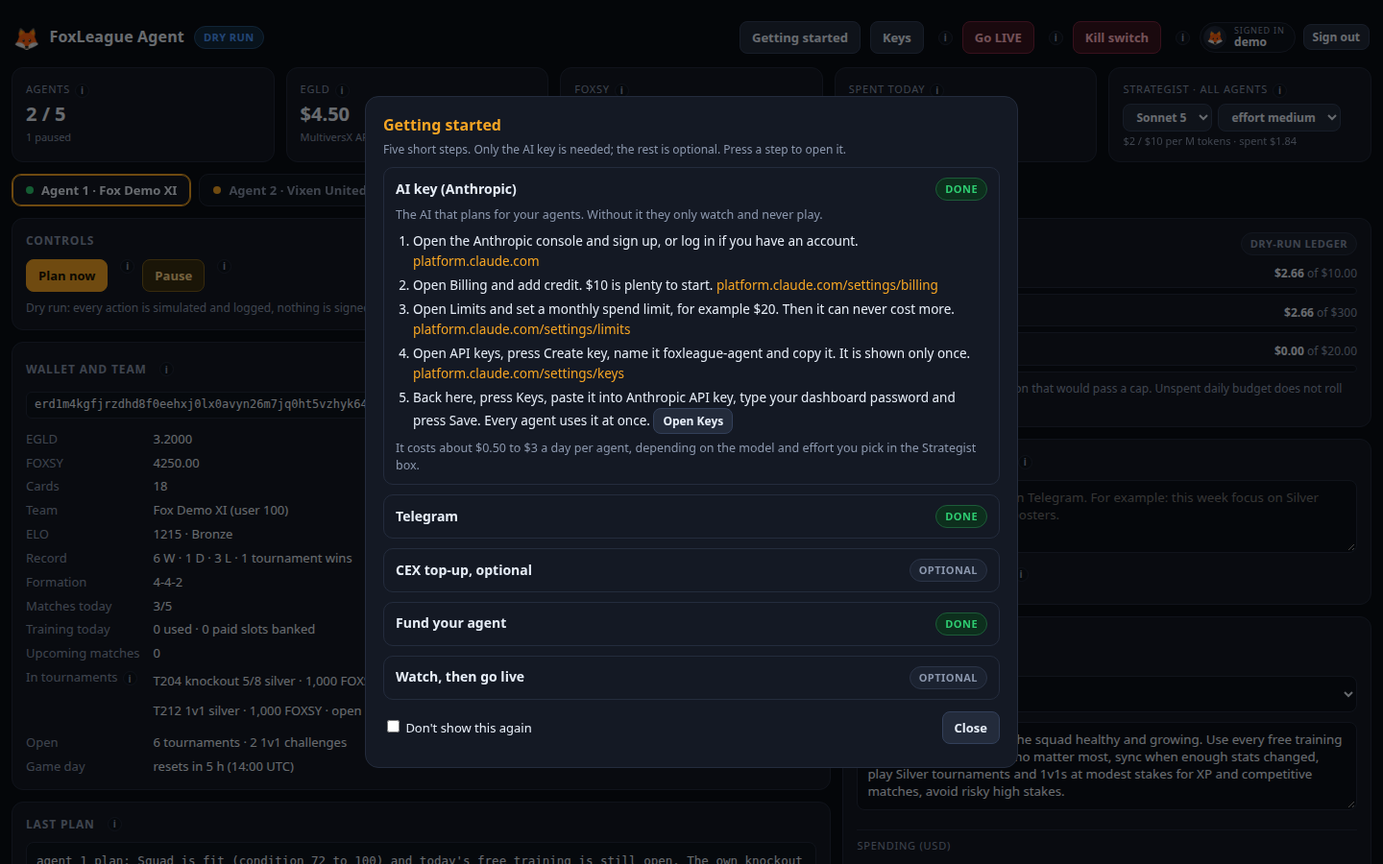
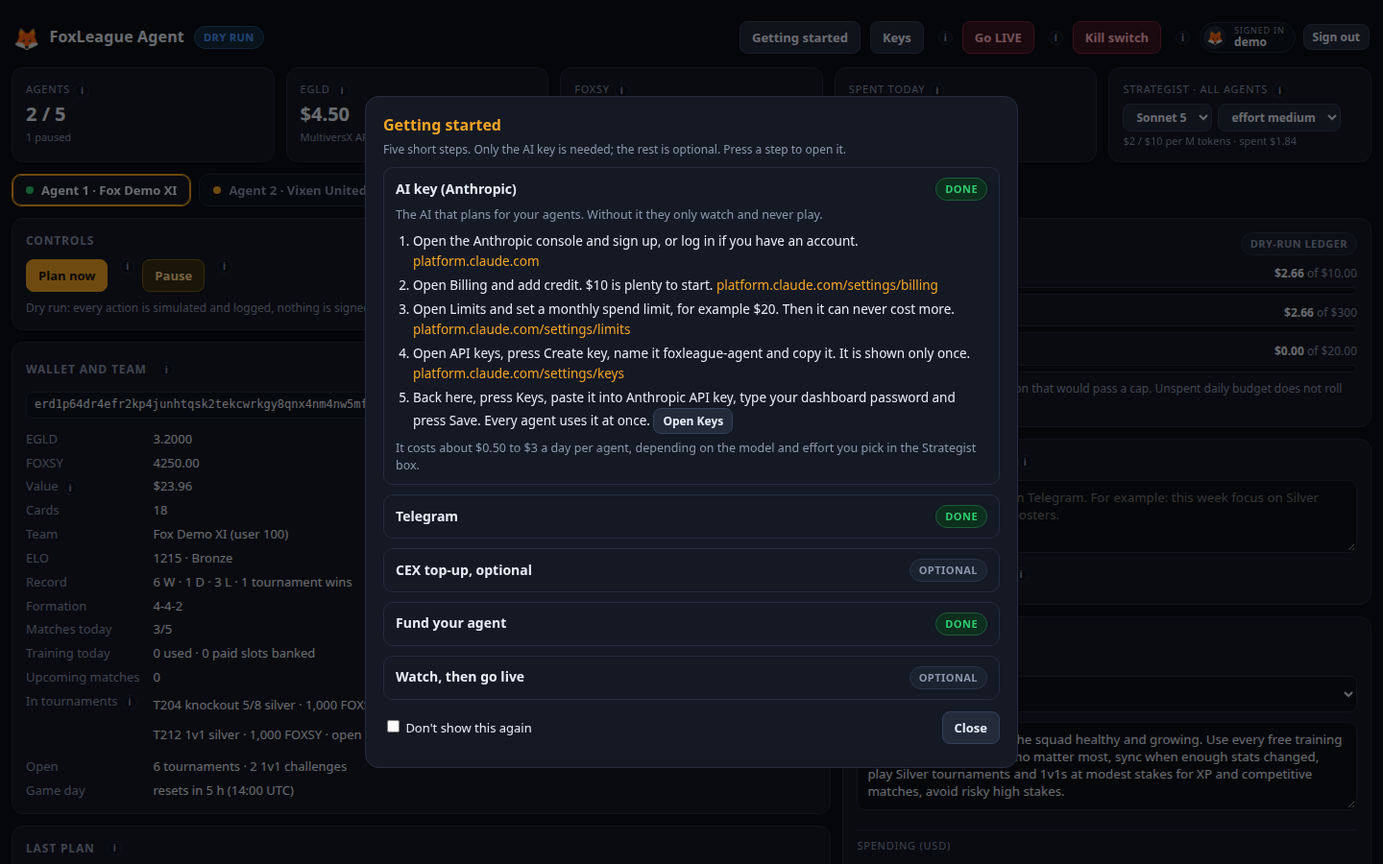
Wallet value with a top-up warning; the manager reads 25 whole messages
Funds: each agent's page shows what its wallet is worth in USD (EGLD,
gas reserve included, plus FOXSY; WEGLD is shown when present and marked
as not used, because the agent swaps EGLD only). Under the new Top-up
warning setting ($10, 0 = off) the value turns orange, the agent's tab
shows "low funds", the totals count it, and one message goes to Telegram
when the wallet falls under the level, again only after a top-up.
Nothing is paused. /agents on Telegram shows the worth too.

Chat: the manager reads at most 25 messages of the current conversation
(a quarter of the 100 kept), whole instead of shortened, and an earlier
message that was about some of the agents says which.

Manual: the setting, the value on the dashboard page, topping up in the
costs page, one conversation for all agents.

diff --git a/src/web/dashboard.html b/src/web/dashboard.html
@@ -109,6 +109,8 @@ h2 .spacer{flex:1}
 .vmode.live{background:rgba(255,92,124,.15);color:var(--down)}
 .vmode.paused{background:rgba(245,165,36,.15);color:var(--acc)}
 .vmode.imported{background:rgba(94,164,255,.14);color:#8fc1ff}
+.vmode.low{background:rgba(255,140,60,.18);color:#ffa45c}
+#walletRows .v.low{color:#ffa45c;font-weight:650}
 #impbox{max-width:520px}
 #impbox input,#impbox textarea{margin-bottom:12px}
 #impbox textarea{resize:vertical;min-height:64px;font-family:ui-monospace,Menlo,monospace}
@@ -310,6 +312,7 @@ form.settings label .info{width:13px;height:13px;font-size:9px;margin-left:4px}
           <div><label for="sMonthly">Monthly budget<i class="info" data-tip="monthly">i</i></label><input id="sMonthly" type="number" min="0" max="10000" step="1"></div>
           <div><label for="sSetup">Setup budget<i class="info" data-tip="setup">i</i></label><input id="sSetup" type="number" min="0" max="200" step="1"><div class="hint">Registration fee, swap, gas</div></div>
           <div><label for="sReserve">EGLD gas reserve<i class="info" data-tip="reserve">i</i></label><input id="sReserve" inputmode="decimal"></div>
+          <div><label for="sTopUp">Top-up warning<i class="info" data-tip="topup">i</i></label><input id="sTopUp" type="number" min="0" max="10000" step="1"><div class="hint">0 switches it off</div></div>
           <div class="sep">Per action (FOXSY)</div>
           <div><label for="sEntry">Max entry fee / stake<i class="info" data-tip="entry">i</i></label><input id="sEntry" type="number" min="0" step="100"></div>
           <div><label for="sShop">Max shop payment<i class="info" data-tip="shop">i</i></label><input id="sShop" type="number" min="0" step="100"></div>
@@ -407,7 +410,8 @@ function renderHeader() {
   $('killBtn').textContent = i.killSwitch ? 'Release kill switch' : 'Kill switch'
   $('killBtn').className = 'btn ' + (i.killSwitch ? 'warn' : 'danger')
   $('kAgents').textContent = S.agents.length + ' / ' + i.maxAgents
-  $('kAgentsS').textContent = S.agents.filter(b => b.paused).length + ' paused'
+  const lowFunds = S.agents.filter(b => b.funds && b.funds.low).length
+  $('kAgentsS').textContent = S.agents.filter(b => b.paused).length + ' paused' + (lowFunds ? ' · ' + lowFunds + ' low on funds' : '')
   const p = S.agents.map(b => b.snapshot && b.snapshot.prices).find(Boolean)
   $('kEgld').textContent = p ? '$' + p.egldUsd.toFixed(2) : '–'
   $('kFoxsy').textContent = p ? '$' + p.foxsyUsd.toFixed(5) : '–'
@@ -446,7 +450,8 @@ function renderAgentbar() {
     bar.append(el('button', { class: 'vtab' + (b.index === sel ? ' on' : ''), onclick: () => select(b.index) },
       el('span', { class: 'vdot ' + dot }), 'Agent ' + (b.index + 1) + (name ? ' · ' + name : ''),
       b.source === 'imported' ? el('span', { class: 'vmode imported', text: 'imported', title: 'An imported team: it plays with its own key, not one from your recovery words' }) : '',
-      b.paused ? el('span', { class: 'vmode paused', text: 'paused' }) : ''))
+      b.paused ? el('span', { class: 'vmode paused', text: 'paused' }) : '',
+      b.funds && b.funds.low ? el('span', { class: 'vmode low', text: 'low funds', title: 'Its wallet is worth less than its top-up warning: send EGLD or FOXSY to this agent' }) : ''))
   }
   const next = S.instance.next
   bar.append(el('button', { class: 'btn sm', disabled: !next, title: next ? 'Account ' + next.index + ' of your recovery words' : 'Limit reached (AGENT_MAX_AGENTS)', onclick: addAgent }, '+ Add agent'))
@@ -465,7 +470,12 @@ function renderAgent() {
   const rows = $('walletRows'); rows.replaceChildren()
   if (!s) rows.append(...row('State', 'waiting for the first snapshot'))
   else {
-    rows.append(...row('EGLD', s.egld ?? '–'), ...row('FOXSY', s.foxsy ?? '–'), ...row('Cards', s.cards ?? '–'))
+    rows.append(...row('EGLD', s.egld ?? '–'), ...row('FOXSY', s.foxsy ?? '–'))
+    if (s.wegld) rows.append(...row('WEGLD', s.wegld + ' · not used by the agent'))
+    const f = b.funds || {}
+    rows.append(el('div', { class: 'k' }, 'Value', el('i', { class: 'info', 'data-tip': 'funds', text: 'i' })),
+      el('div', { class: 'v' + (f.low ? ' low' : '') }, f.usd === null || f.usd === undefined ? '–' : usd(f.usd) + (f.low ? ' · low: top up with EGLD or FOXSY (warning at $' + b.settings.topUpWarningUsd + ')' : '')))
+    rows.append(...row('Cards', s.cards ?? '–'))
     const r = s.registration
     if (!r.registered) {
       const bits = ['not registered', r.whitelisted === false ? 'not whitelisted' : null, r.relayerEnabled === false ? 'relayer off' : null, r.feePaidOnChain ? 'fee already paid' : null].filter(Boolean)
@@ -531,7 +541,7 @@ function fillForm(st) {
   sp.value = Object.keys(presets).find(k => presets[k] === st.strategy) || ''
   $('sStrategy').value = st.strategy
   $('sDaily').value = st.dailyCapUsd; $('sMonthly').value = st.monthlyBudgetUsd; $('sSetup').value = st.setupBudgetUsd
-  $('sReserve').value = st.egldGasReserve
+  $('sReserve').value = st.egldGasReserve; $('sTopUp').value = st.topUpWarningUsd
   $('sEntry').value = st.maxEntryFeeFoxsy; $('sShop').value = st.maxShopPaymentFoxsy; $('sSwap').value = st.maxSwapFoxsy; $('sBid').value = st.maxBidFoxsy
   $('sSilver').value = st.entryFeesSilver.join(', '); $('sGold').value = st.entryFeesGold.join(', ')
   $('sTick').value = st.tickMinutes; $('sJitter').value = st.tickJitterMinutes
@@ -545,7 +555,7 @@ function readForm() {
   const list = id => $(id).value.split(/[\s,]+/).filter(Boolean).map(Number)
   return {
     strategy: $('sStrategy').value, dailyCapUsd: n('sDaily'), monthlyBudgetUsd: n('sMonthly'), setupBudgetUsd: n('sSetup'),
-    egldGasReserve: $('sReserve').value.trim(), maxEntryFeeFoxsy: n('sEntry'), maxShopPaymentFoxsy: n('sShop'), maxSwapFoxsy: n('sSwap'), maxBidFoxsy: n('sBid'),
+    egldGasReserve: $('sReserve').value.trim(), topUpWarningUsd: n('sTopUp'), maxEntryFeeFoxsy: n('sEntry'), maxShopPaymentFoxsy: n('sShop'), maxSwapFoxsy: n('sSwap'), maxBidFoxsy: n('sBid'),
     entryFeesSilver: list('sSilver'), entryFeesGold: list('sGold'), tickMinutes: n('sTick'), tickJitterMinutes: n('sJitter'),
     activeHoursUtc: [n('sFrom'), n('sTo')], minGapSeconds: n('sGap'), actionProbability: n('sProb'),
   }
@@ -752,9 +762,14 @@ const TIPS = {
     <p>The conversation stays in this box: your messages on the right, the manager's answers on the left, up to 100 messages, together with the ones from Telegram. Ctrl+Enter sends.</p>
     <p>The manager reads the current conversation, so a follow-up needs no repeating. After an hour without a message, or after Clear, your next message starts a new conversation. A thin line shows where its memory starts; what is above stays here for you to read back.</p>
     <p>The chat can change only the strategy text, never the caps, the mode, pause, the kill switch or the model.</p>`],
+  funds: ['Value', `<p>What this wallet holds for the game, in USD at the current prices: its EGLD (the gas reserve included) plus its FOXSY.</p>
+    <p>It turns orange, and the agent's tab shows "low funds", when it is worth less than the Top-up warning in Settings. You also get one message on Telegram when it falls under that level. Nothing is paused: the agent plays on with what it has.</p>
+    <p>To top up, send EGLD to the address above on the MultiversX network: the agent buys FOXSY with it by itself. You can send FOXSY too. WEGLD is not used by the agent, so it is not counted.</p>`],
+  topup: ['Top-up warning', `<p>You are warned when this agent's wallet (EGLD plus FOXSY) is worth less than this amount in USD: the value turns orange here and one message goes to Telegram. The next message comes only after you topped it up and it fell again.</p>
+    <p>Keep it above what one day of play costs you. Remember that the EGLD gas reserve is part of the value and is never swapped. 0 switches the warning off.</p>`],
   chat_clear: ['Clear', `<p>Empties the conversation, here and for Telegram: the manager starts fresh with your next message.</p>
     <p>Why: the manager reads the current conversation again with every message you send, and the AI is paid for what it reads. A short conversation costs less and keeps the answers on the topic. One line costs a fraction of a cent, so it counts in long discussions and with the dearer models.</p>
-    <p>It also forgets by itself: after an hour without a message your next one starts a new conversation, and it never reads more than the last 40 lines. Strategy proposals still waiting in the conversation are dropped with it. Your strategies, settings and the activity history are not touched.</p>`],
+    <p>It also forgets by itself: after an hour without a message your next one starts a new conversation, and it never reads more than the last 25 messages. Strategy proposals still waiting in the conversation are dropped with it. Your strategies, settings and the activity history are not touched.</p>`],
   speak: ['Speak', `<p>Press Speak and talk instead of typing: your words appear in the box. Press Stop when you are done, read the text and press Send.</p>
     <p>Your browser turns the speech into text, and the first time it asks you to allow the microphone. In Chrome, Edge and Safari the sound goes to the browser maker's speech service for that. Nothing else leaves this page and nothing is sent to the manager until you press Send.</p>
     <p>It listens in one language at a time. With several languages set in your browser, pick the one you speak in the list next to the button. Browsers without speech to text (Firefox) do not show the button.</p>`],

diff --git a/src/service.ts b/src/service.ts
@@ -16,7 +16,8 @@ import { deriveWallet, exportPem, type AgentWallet } from './wallet/wallet.ts'
 import { addressOfKey, deleteImportedKey, loadImportedWallet, saveImportedKey, secretKeyFrom, type ImportInput } from './wallet/imported.ts'
 import type { UserSecretKey } from '@multiversx/sdk-core'
 import { MAINNET } from './config.ts'
-import { atomicToFloat } from './util/encoding.ts'
+import { atomicToFloat, formatAtomic } from './util/encoding.ts'
+import { fundsUsd, lowOnFunds } from './snapshot/funds.ts'
 import { Executor } from './executor/executor.ts'
 import { describeAction, parseAction, type PlannedAction } from './executor/actions.ts'
 import { budgetView } from './executor/budget.ts'
@@ -102,12 +103,12 @@ export interface ChatLine {
   changes?: string
 }
 /**
- * The box keeps and shows the last CHAT_KEPT lines. The manager reads the current conversation only: the
- * lines since the last pause of CHAT_PAUSE_MS (or since Clear), at most CHAT_CONTEXT of them, because every
- * line it reads is paid for with each message.
+ * The box keeps and shows the last CHAT_KEPT messages. The manager reads the current conversation only: the
+ * messages since the last pause of CHAT_PAUSE_MS (or since Clear), at most CHAT_CONTEXT of them (a quarter of
+ * what is kept), whole, because everything it reads is paid for with each message.
  */
 const CHAT_KEPT = 100
-const CHAT_CONTEXT = 40
+const CHAT_CONTEXT = 25
 const CHAT_PAUSE_MS = 3600_000
 
 export class Service {
@@ -251,9 +252,13 @@ export class Service {
           const s = this.snapshots.get(b.index)
           return { index: b.index, team: s?.team?.name ?? s?.registration.teamName ?? null, strategy: b.settings.strategy, paused: b.paused }
         }),
+        // Whole messages. An owner message that was about some of the agents only says which, so a follow-up
+        // about another agent is not mixed up with it.
         recent: this.chatContext().map(l => ({
           from: l.from,
-          text: l.from === 'owner' ? l.text.slice(0, 600) : `${l.text}${l.strategy !== undefined ? ` [proposed strategy for ${whichAgents(l.agents ?? [])}: ${l.strategy}]` : ''}`.slice(0, 1200),
+          text: l.from === 'owner'
+            ? `${l.agents?.length && l.agents.length < agents.length ? `(about ${whichAgents(l.agents)}) ` : ''}${l.text}`
+            : `${l.text}${l.strategy !== undefined ? ` [proposed strategy for ${whichAgents(l.agents ?? [])}: ${l.strategy}]` : ''}`,
         })),
         digests: targets.slice(0, 3).flatMap(i => {
           const s = this.snapshots.get(i)
@@ -296,6 +301,27 @@ export class Service {
     this.store.setKv('chat', '[]')
     if (n) this.store.log({ agentIndex: null, kind: 'control', status: 'info', summary: `conversation with the manager cleared (${by})` })
     return n ? 'conversation cleared: the manager starts fresh with your next message' : 'the conversation is already empty'
+  }
+
+  /**
+   * Tells the owner when an agent's wallet is worth less than its top-up warning level: once when it falls
+   * under it, and again only after it was topped up above it. Nothing is paused: the agent plays on with what
+   * it has.
+   */
+  private checkFunds(agent: AgentRow, snap: AgentSnapshot): void {
+    const usd = fundsUsd(snap)
+    const level = agent.settings.topUpWarningUsd
+    const key = `low_funds:${agent.index}`
+    if (usd === null || level <= 0) return
+    if (!lowOnFunds(usd, level)) {
+      if (this.store.getKv(key) === '1') this.store.setKv(key, '0')
+      return
+    }
+    if (this.store.getKv(key) === '1') return
+    this.store.setKv(key, '1')
+    const text = `${agentName(agent.index)} is low on funds: about $${usd.toFixed(2)} in its wallet (${formatAtomic(snap.chain!.egld, 4)} EGLD, ${formatAtomic(snap.chain!.foxsy, 0)} FOXSY), under its top-up warning of $${level}. Send EGLD (it buys FOXSY by itself) or FOXSY to ${agent.address}`
+    this.store.log({ agentIndex: agent.index, kind: 'control', status: 'info', summary: text })
+    this.notify(text)
   }
 
   cancelProposal(id: string): string {
@@ -683,6 +709,7 @@ export class Service {
       const n = await creditRefunds({ store: this.store, chain: this.chain, fox: this.fox }, agent, agent.dryRun || !this.executor.liveEnabled).catch(() => 0)
       if (n) this.store.log({ agentIndex: index, kind: 'tick', status: 'info', summary: n === 1 ? '1 refunded bid or seat no longer counts against the budget' : `${n} refunded bids or seats no longer count against the budget` })
       const snap = await this.snapshot(index)
+      this.checkFunds(agent, snap)
       // Onboarding: the free team badge, once (plain code, never paid for; a failure never stops the tick).
       await ensureBadge({ store: this.store, fox: this.fox, notify: t => this.notify(t) }, index, this.wallet(index), snap.team, agent.dryRun || !this.executor.liveEnabled).catch(() => undefined)
       if (!this.strategist) {
@@ -810,7 +837,12 @@ export class Service {
         for (const b of this.store.agents()) {
           const snap = await takeSnapshot({ chain: this.chain, fox: this.fox }, { wallet: this.wallet(b.index) })
           const v = budgetView(this.store, b.index, b.settings, b.dryRun || !this.executor.liveEnabled, new Date())
-          lines.push(renderDigest(snap).split('\n').slice(0, 5).join('\n'), `spent today $${v.spentTodayUsd.toFixed(2)}/${v.dailyCapUsd}, month $${v.spentMonthUsd.toFixed(2)}/${v.monthlyBudgetUsd}`)
+          const worth = fundsUsd(snap)
+          lines.push(
+            renderDigest(snap).split('\n').slice(0, 5).join('\n'),
+            `spent today $${v.spentTodayUsd.toFixed(2)}/${v.dailyCapUsd}, month $${v.spentMonthUsd.toFixed(2)}/${v.monthlyBudgetUsd}`,
+            ...(worth === null ? [] : [`wallet worth about $${worth.toFixed(2)}${lowOnFunds(worth, b.settings.topUpWarningUsd) ? ` (LOW: under the $${b.settings.topUpWarningUsd} top-up warning)` : ''}`]),
+          )
         }
         return lines.join('\n')
       }

diff --git a/test/chat.test.ts b/test/chat.test.ts
@@ -66,16 +66,16 @@ test('the conversation with the manager is kept: saved across a restart, read ba
   assert.match(svc.cancelProposal('deadbeef'), /already applied, cancelled or expired/)
   assert.equal(svc.chatLines().length, count)
 
-  // The box keeps the last 100 lines, the manager reads 40 at most, and a long message is shortened for it.
+  // The box keeps the last 100 messages and the manager reads 25 at most, whole.
   answer = { reply: 'r'.repeat(3000), proposal: null, usd: 0 }
   for (let i = 0; i < 60; i++) await svc.discuss(`${'m'.repeat(1000)} ${i}`, 'Telegram')
   assert.equal(svc.chatLines().length, 100)
   assert.equal(new Service(cfg).chatLines().length, 100)
   assert.equal(svc.chatLines().at(-2)!.text.length, 1003, 'the box shows the whole message')
-  assert.equal(svc.chatLines().filter(l => l.read).length, 40)
+  assert.equal(svc.chatLines().filter(l => l.read).length, 25)
   const context = seen.at(-1)!.recent
-  assert.equal(context.length, 40)
-  assert.deepEqual([context[0]!.text.length, context[1]!.text.length], [600, 1200])
+  assert.equal(context.length, 25)
+  assert.deepEqual([context[0]!.from, context[0]!.text.length, context[1]!.text.length], ['manager', 3000, 1003], 'whole messages')
 })
 
 test('the manager reads the current conversation only: an hour without a message or Clear starts a new one', async () => {
@@ -101,6 +101,14 @@ test('the manager reads the current conversation only: an hour without a message
   assert.deepEqual(seen.at(-1)!.recent.map(r => r.text), ['q2', 'a'], 'only the current conversation goes to the manager')
   assert.equal(later.chatLines().length, 8, 'the box still shows the earlier lines')
 
+  // With a second agent, a message about one of them says so when the manager reads it again.
+  ;(later as unknown as { schedule: unknown }).schedule = () => undefined
+  later.addNextAgent()
+  await later.discuss('play more ranked', 'web UI, demo', [1])
+  await later.discuss('and you all?', 'Telegram')
+  assert.deepEqual(seen.at(-1)!.recent.slice(-2).map(r => r.text), ['(about agent 2) play more ranked', 'a'])
+  assert.equal(seen.at(-1)!.recent.length, 6)
+
   // Clear empties it for both sides and drops a proposal still waiting in it.
   answer = { reply: 'Gold then.', proposal: { agents: [0], strategy: 'Gold only', changes: '' }, usd: 0 }
   const asked = await later.discuss('go for Gold', 'Telegram')
@@ -116,4 +124,40 @@ test('the manager reads the current conversation only: an hour without a message
   assert.deepEqual(seen.at(-1)!.recent, [], 'the next message starts with no context')
   assert.match(await later.command('clear', [], ''), /conversation cleared/)
   assert.deepEqual(later.chatLines(), [])
+})
+
+test('low funds: the owner is told once when a wallet falls under its top-up warning, and again only after a top-up', async () => {
+  const { snapshot } = await import('./fixtures.ts')
+  const { fundsUsd, lowOnFunds } = await import('../src/snapshot/funds.ts')
+  const { validateSettingsPatch, DEFAULT_SETTINGS } = await import('../src/store/settings.ts')
+  const svc = new Service(testConfig(mkdtempSync(join(tmpdir(), 'foxagent-'))))
+  svc.ensureAgents()
+  const told: string[] = []
+  svc.notify = (text: string) => void told.push(text)
+  const check = (egld: number, foxsy: number) => {
+    const snap = snapshot()
+    snap.chain = { ...snap.chain!, egld: BigInt(Math.round(egld * 1e6)) * 10n ** 12n, foxsy: BigInt(foxsy) * 10n ** 18n, wegld: 5n * 10n ** 18n }
+    snap.prices = { egldUsd: 4, egldPerFoxsy: 0.0005, foxsyUsd: 0.002 }
+    ;(svc as unknown as { checkFunds: (a: unknown, s: unknown) => void }).checkFunds(svc.store.agent(0)!, snap)
+    return snap
+  }
+  assert.equal(DEFAULT_SETTINGS.topUpWarningUsd, 10)
+  assert.equal(fundsUsd(check(3, 1000)), 14, '3 EGLD at $4 plus 1,000 FOXSY at $0.002; WEGLD is not counted')
+  assert.deepEqual(told, [], 'above the level nothing is said')
+  check(2, 500) // $9
+  assert.equal(told.length, 1)
+  assert.match(told[0]!, /^agent 1 is low on funds: about \$9\.00 in its wallet \(2\.0000 EGLD, 500 FOXSY\), under its top-up warning of \$10\. Send EGLD .* to erd1/)
+  check(1.5, 500)
+  check(1, 0)
+  assert.equal(told.length, 1, 'said once while it stays low')
+  check(5, 0) // topped up
+  check(2, 0)
+  assert.equal(told.length, 2, 'said again after a top-up and a new fall')
+  assert.match(svc.store.activity(0, 3)[0]!.summary, /low on funds/)
+  // The level is the owner's: 0 switches the warning off, and an unknown price says nothing.
+  svc.store.updateSettings(0, validateSettingsPatch({ topUpWarningUsd: 0 }))
+  check(5, 0); check(0.1, 0)
+  assert.equal(told.length, 2)
+  assert.deepEqual([lowOnFunds(9.99, 10), lowOnFunds(10, 10), lowOnFunds(1, 0), lowOnFunds(null, 10), fundsUsd(undefined)], [true, false, false, false, null])
+  assert.throws(() => validateSettingsPatch({ topUpWarningUsd: -1 }), /topUpWarningUsd/)
 })

diff --git a/src/web/server.ts b/src/web/server.ts
@@ -13,6 +13,7 @@ import { budgetView } from '../executor/budget.ts'
 import { EFFORTS, MODELS, type Effort } from '../strategist/strategist.ts'
 import { isKeyName, type KeyValues } from '../store/secrets.ts'
 import { formatAtomic } from '../util/encoding.ts'
+import { fundsUsd, lowOnFunds } from '../snapshot/funds.ts'
 import type { AgentSnapshot } from '../snapshot/snapshot.ts'
 import { agentName, pemName } from '../names.ts'
 import type { ImportInput } from '../wallet/imported.ts'
@@ -102,6 +103,8 @@ function snapshotSummary(s: AgentSnapshot | undefined) {
     takenAt: s.takenAt,
     egld: s.chain ? formatAtomic(s.chain.egld, 4) : null,
     foxsy: s.chain ? formatAtomic(s.chain.foxsy, 2) : null,
+    // WEGLD is shown only when the wallet holds some: the agent never uses it.
+    wegld: s.chain && s.chain.wegld > 0n ? formatAtomic(s.chain.wegld, 4) : null,
     cards: s.chain?.nftCount ?? null,
     prices: s.prices,
     registration: s.registration,
@@ -199,6 +202,7 @@ export function startWeb(service: Service, creds: Credentials, port: number, hos
           settings: b.settings,
           budget: budgetView(service.store, b.index, b.settings, dry, now, snap?.gameDay.resetHourUtc ?? 14),
           snapshot: snapshotSummary(snap),
+          funds: { usd: fundsUsd(snap), low: lowOnFunds(fundsUsd(snap), b.settings.topUpWarningUsd) },
           lastPlan: service.store.getKv(`last_plan_${b.index}`) ?? null,
         }
       }),

diff --git a/src/store/settings.ts b/src/store/settings.ts
@@ -17,6 +17,8 @@ export interface AgentSettings {
   maxSwapFoxsy: number
   /** EGLD kept for gas: a swap that would leave less is refused; transaction fees may use it. */
   egldGasReserve: string
+  /** The owner is told when the wallet's EGLD and FOXSY together are worth less than this (USD); 0 switches it off. */
+  topUpWarningUsd: number
   /** Round entry amounts to choose from when creating (never odd numbers like 1,246). */
   entryFeesSilver: number[]
   entryFeesGold: number[]
@@ -52,6 +54,7 @@ export const DEFAULT_SETTINGS: AgentSettings = {
   maxSwapFoxsy: 10_000,
   maxBidFoxsy: 2500,
   egldGasReserve: '1',
+  topUpWarningUsd: 10,
   entryFeesSilver: [1000, 1500, 2000, 2500, 3000],
   entryFeesGold: [5000],
   tickMinutes: 30,
@@ -91,6 +94,7 @@ export function validateSettingsPatch(raw: Record<string, unknown>): Partial<Age
   num('dailyCapUsd', 0, 1000)
   num('monthlyBudgetUsd', 0, 10_000)
   num('setupBudgetUsd', 0, 200)
+  num('topUpWarningUsd', 0, 10_000)
   num('maxEntryFeeFoxsy', 0, 100_000, true)
   num('maxShopPaymentFoxsy', 0, 100_000, true)
   num('maxSwapFoxsy', 100, 1_000_000, true)

diff --git a/src/snapshot/funds.ts b/src/snapshot/funds.ts
@@ -1,0 +1,16 @@
+// What an agent's wallet holds for the game, in USD: the EGLD (its gas reserve included) and the FOXSY, at the
+// snapshot's prices. WEGLD is left out: the agent swaps EGLD only, so WEGLD in the wallet is never used.
+
+import { atomicToFloat } from '../util/encoding.ts'
+import type { AgentSnapshot } from './snapshot.ts'
+
+/** Null while the balances or the prices are not known. */
+export function fundsUsd(s: AgentSnapshot | undefined): number | null {
+  if (!s?.chain || !s.prices) return null
+  return atomicToFloat(s.chain.egld) * s.prices.egldUsd + atomicToFloat(s.chain.foxsy) * s.prices.foxsyUsd
+}
+
+/** True when the wallet is worth less than the owner's top-up warning level (0 = never). */
+export function lowOnFunds(usd: number | null, topUpWarningUsd: number): boolean {
+  return usd !== null && topUpWarningUsd > 0 && usd < topUpWarningUsd
+}

diff --git a/site/src/content/docs/use/dashboard.md b/site/src/content/docs/use/dashboard.md
@@ -18,7 +18,7 @@ small **i**: hover it for a preview, tap or click it for the full explanation.
 
 ## The totals
 
-- **Agents**: how many agents run on this computer, and how many are paused.
+- **Agents**: how many agents run on this computer, how many are paused and how many are low on funds.
 - **EGLD** and **FOXSY**: the live prices the limits use. Every payment is valued in USD before it is checked.
 - **Spent today**: what all agents spent this game day (it resets at 14:00 UTC, like the game's own daily limits).
 - **Strategist**: the AI model and effort for every agent. Sonnet 5 is the default and plays well; higher models or
@@ -27,8 +27,11 @@ small **i**: hover it for a preview, tap or click it for the full explanation.
 ## An agent's page
 
 - **Controls**: **Plan now** runs a planning cycle at once; **Pause** stops this agent only.
-- **Wallet and team**: balances, cards, team, rating and record, matches and training today. **In tournaments**
-  lists the tournaments and 1v1s the agent is in, each open one with a **Leave** button.
+- **Wallet and team**: balances, cards, team, rating and record, matches and training today. **Value** is what
+  the wallet's EGLD and FOXSY are worth in USD; it turns orange, and the agent's tab shows **low funds**, when it
+  falls under your **Top-up warning** (you also get one message on Telegram). To top up, send EGLD to the agent's
+  address: it buys FOXSY by itself. **In tournaments** lists the tournaments and 1v1s the agent is in, each open
+  one with a **Leave** button.
 - **Last plan**: the agent's latest reading of the situation, each action with a one-line reason and the cost of
   the AI call.
 - **Activity**: everything the agent did, newest first, with a filter for plans, actions or problems.

diff --git a/site/src/content/docs/use/talk-to-your-manager.md b/site/src/content/docs/use/talk-to-your-manager.md
@@ -26,8 +26,12 @@ with **Apply** and **Cancel**, also when it was proposed on Telegram. **Ctrl+Ent
 
 The manager reads the **current conversation** with every message you send, so a follow-up question needs no
 repeating. A conversation ends by itself after **an hour without a message**: your next message then starts a
-new one. It never reads more than the last 40 lines. A thin line in the box shows where its memory starts; what
-is above stays there for you to read back.
+new one. It never reads more than the last 25 messages. A thin line in the box shows where its memory starts;
+what is above stays there for you to read back.
+
+There is one conversation for all your agents, the same one on every agent's page and on Telegram: you have one
+manager for all your teams. A message sent from an agent's page is about that agent unless you name others, and
+the manager is told which agent each earlier message was about.
 
 **Clear** (on Telegram: `/clear`) empties the conversation at once. Use it when you change the subject: the AI is
 paid for what it reads, so a short conversation costs less and keeps the answers on the topic. One line costs a

diff --git a/site/src/content/docs/use/settings.md b/site/src/content/docs/use/settings.md
@@ -21,6 +21,7 @@ Your limits always win: the strategy guides the choices, the code enforces the l
 | Monthly budget | $300 | The most this agent may spend in a calendar month. Every action must fit both this and the daily cap. It also limits the EGLD swapped to FOXSY in a month. |
 | Setup budget | $20 | A separate one-time budget for starting the team: the 5,000 FOXSY registration, the swap that buys it and its fee. It does not count against the daily or monthly caps. |
 | EGLD gas reserve | 1 EGLD | EGLD that always stays in the wallet for network fees. A swap may only use the EGLD above it. 1 EGLD pays for well over a thousand ordinary transactions. The lowest allowed is 0.05. |
+| Top-up warning | $10 | You are warned when the wallet's EGLD and FOXSY together are worth less than this: the value turns orange on the agent's page and one message goes to Telegram. Nothing is paused. 0 switches it off. |
 
 ## Per action (FOXSY)
 

diff --git a/site/src/content/docs/help/costs.md b/site/src/content/docs/help/costs.md
@@ -15,7 +15,9 @@ The agent itself is free. Three things cost money, and you control each one:
 
 About **5 EGLD**: 2.5 buys the 5,000 FOXSY registration, 1 stays in the wallet as the gas reserve, the rest plays
 the first games. After that, top up as the agent plays, by hand for now (automatic top-ups from an exchange, with Binance as
-the first one, come in a later version).
+the first one, come in a later version). Each agent's page shows what its wallet is worth, and you are warned there
+and on Telegram when it falls under your **Top-up warning** ($10 unless you change it). Send EGLD, the agent buys
+FOXSY with it by itself; FOXSY works too. WEGLD is not used by the agent.
 
 ## What you get back
 
